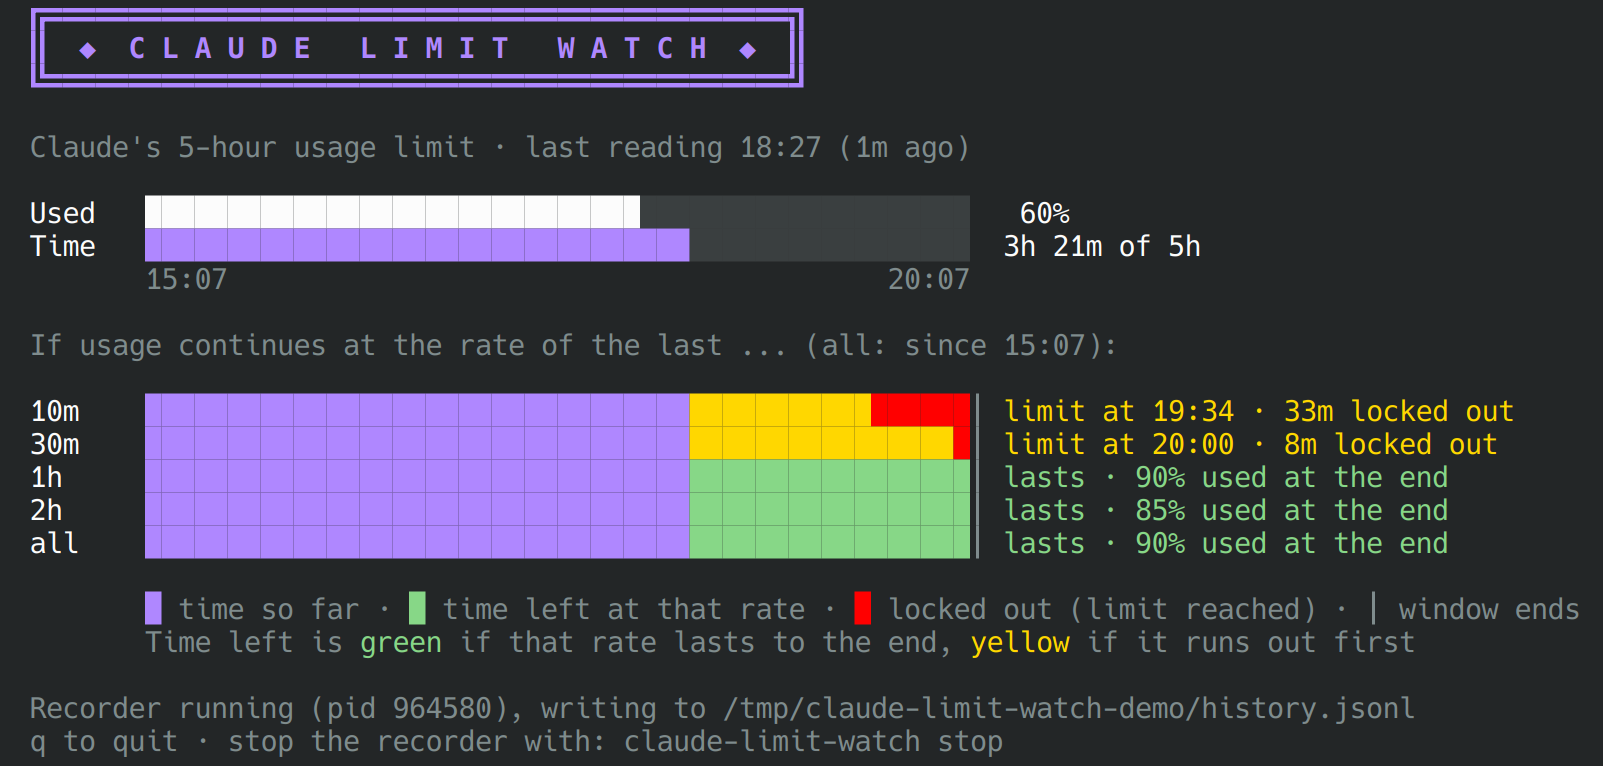
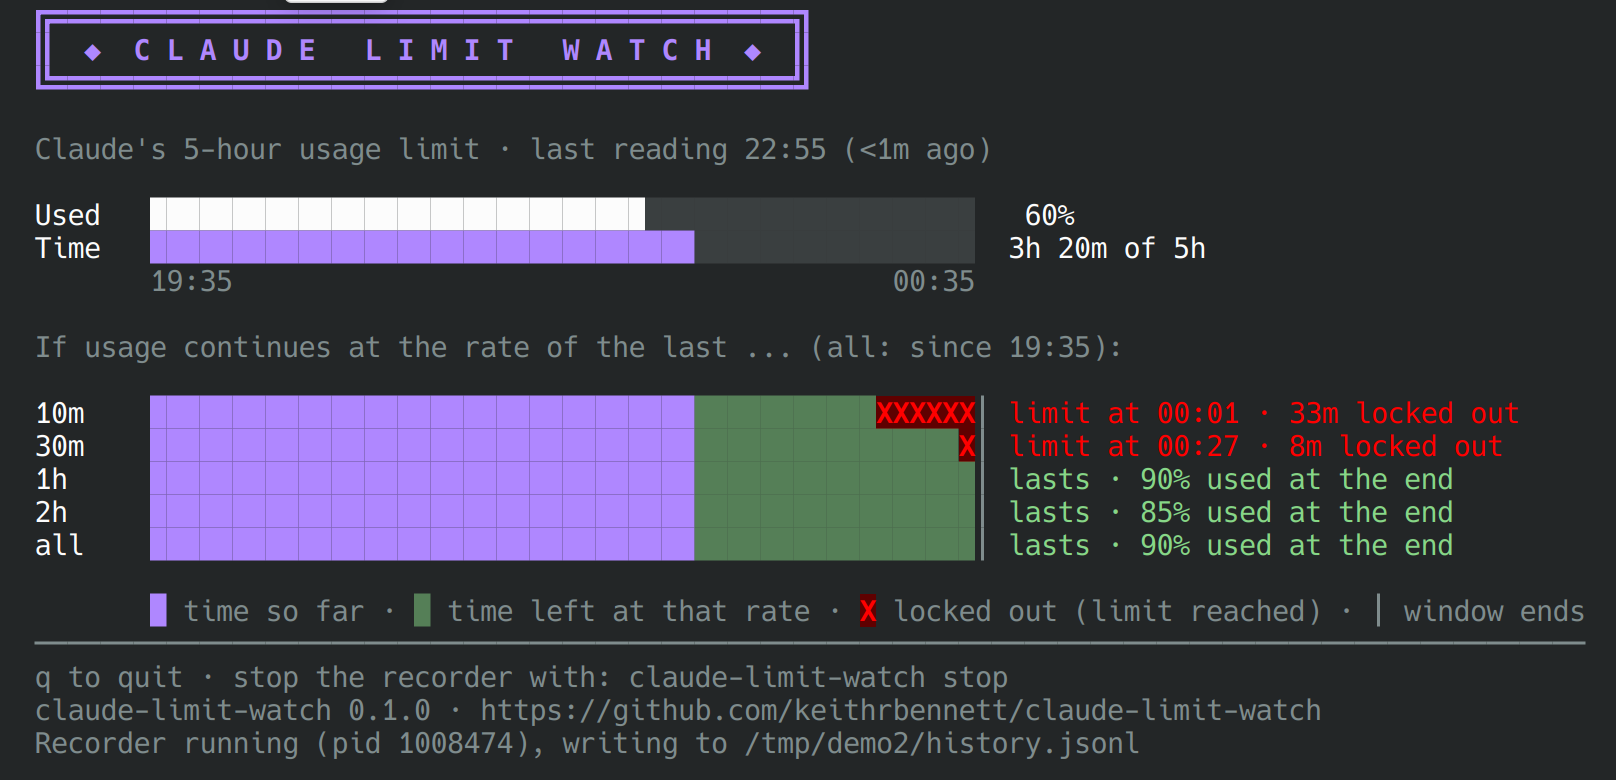
Address review of the panel footer change
- Replace the blank line above the footer rule with the rule, keeping the
  default panel at 23 rows so it fits a 24-row terminal.
- Size the rule from the legend line instead of a magic number, and never
  below zero (it raised ArgumentError at widths of 3 or less).
- Use one VERSION_LINE constant for the version and project URL.
- Fix the demo script's comment and README wrapping for the new colors.
- Add to .gitignore

diff --git a/lib/claude_limit_watch.rb b/lib/claude_limit_watch.rb
@@ -63,6 +63,7 @@ module ClaudeLimitWatch
   LEFT_CHAR = '▒'
   LOCKED_CHAR = 'X'
   LOCKED_COLOR = [1, 38, 5, 196, 48, 5, 52].freeze # bold red X on a dark red background
+  VERSION_LINE = "claude-limit-watch #{VERSION} · #{HOMEPAGE}"
   RATE_COL = 23 # width of the burn-rate column
   @rate_window_min = DEFAULT_RATE_WINDOW_MIN # set from the command line
 
@@ -459,7 +460,7 @@ module ClaudeLimitWatch
     puts color(message, :dim)
     puts color("Claude 5-hour limit, from #{HISTORY_FILE}; burn rate over the last " \
                "#{num(@rate_window_min)}m. Ctrl-C to quit (the recorder keeps running).", :dim)
-    puts color("claude-limit-watch #{VERSION}: #{HOMEPAGE}", :dim)
+    puts color(VERSION_LINE, :dim)
     puts color(header, :dim)
 
     cache = HistoryCache.new
@@ -599,6 +600,13 @@ module ClaudeLimitWatch
 
   # once: printing a single copy (--once), so use a fixed width, don't
   # truncate, and leave out the quit instruction.
+  # The projection bars' key: each symbol drawn as it appears in the bars.
+  def legend
+    "         #{paint(SO_FAR_CHAR, *ACCENT_COLOR)}#{paint(' time so far · ', 90)}#{paint(LEFT_CHAR, COLORS[:ok])}" \
+      "#{paint(' time left at that rate · ', 90)}#{paint(LOCKED_CHAR, *LOCKED_COLOR)}" \
+      "#{paint(' locked out (limit reached) · │ window ends', 90)}"
+  end
+
   def dashboard_lines(st, now, once: false)
     w = once ? 100 : term_width
     bar_w = (w - 47).clamp(10, 50) # leaves room for the projection rows' text
@@ -628,10 +636,7 @@ module ClaudeLimitWatch
         lines << ''
         lines.concat(projection_bar_lines(st[:table], p, bar_w, now))
         lines << ''
-        # Each symbol drawn as it appears in the bars.
-        lines << "         #{paint(SO_FAR_CHAR, *ACCENT_COLOR)}#{paint(' time so far · ', 90)}#{paint(LEFT_CHAR, COLORS[:ok])}" \
-                 "#{paint(' time left at that rate · ', 90)}#{paint(LOCKED_CHAR, *LOCKED_COLOR)}" \
-                 "#{paint(' locked out (limit reached) · │ window ends', 90)}"
+        lines << legend
       elsif p[:util] < 100
         lines << ''
         lines << paint("  Projections start #{MIN_ELAPSED_MIN}m into the window " \
@@ -647,19 +652,19 @@ module ClaudeLimitWatch
       gap = st[:last_t] ? "No new readings for #{dur_m(now - st[:last_t])}. " : ''
       lines << paint("  #{gap}#{RESTART_HINT}", 33)
     end
-    lines << ''
     recorder =
       if st[:recorder_pid]
         "Recorder running (pid #{st[:recorder_pid]}), writing to #{home_relative(HISTORY_FILE)}"
       else
         "Recorder not running (history file: #{home_relative(HISTORY_FILE)})"
       end
-    lines << paint("  #{'─' * [bar_w + 46, w - 4].min}", 90)
+    rule_w = [[legend.gsub(ANSI_RE, '').size - 2, w - 4].min, 0].max # ends where the legend does
+    lines << paint("  #{'─' * rule_w}", 90)
     unless once
       stop = st[:recorder_pid] ? ' · stop the recorder with: claude-limit-watch stop' : ''
       lines << paint("  q to quit#{stop}", 90)
     end
-    lines << paint("  claude-limit-watch #{VERSION} · #{HOMEPAGE}", 90)
+    lines << paint("  #{VERSION_LINE}", 90)
     lines << paint("  #{recorder}", 90)
     once ? lines : lines.map { |l| fit(l, w) }
   end
@@ -723,7 +728,7 @@ module ClaudeLimitWatch
       # Leave the stop instruction in the scrollback.
       pid = recorder_pid
       puts pid ? stop_hint(pid) : 'The recorder is not running.'
-      puts "claude-limit-watch #{VERSION}: #{HOMEPAGE}"
+      puts VERSION_LINE
       $stdout.flush
     end
     %w[INT TERM HUP].each { |sig| trap(sig) { exit 0 } }
@@ -764,7 +769,7 @@ module ClaudeLimitWatch
           --lines: one line per reading instead of the full-screen panel.
           --once:  print the panel once and exit (for copying); doesn't start the recorder.
 
-    claude-limit-watch #{VERSION}: #{HOMEPAGE}
+    #{VERSION_LINE}
   TEXT
 
   def number_arg(arg, default, min)

diff --git a/script/demo_history.rb b/script/demo_history.rb
@@ -7,8 +7,8 @@
 #   CLAUDE_LIMIT_WATCH_FILE=<history-file> exe/claude-limit-watch   # in another
 #
 # The scenario: 3h20m into the window at 60% used, after an early burst and a
-# recent surge, so the 10m and 30m rows run out (yellow, with red locked-out
-# time) while 1h, 2h and all last to the end (green).
+# recent surge, so the 10m and 30m rows run out (green time left, then red
+# locked-out time) while 1h, 2h and all last to the end (all green).
 #
 # It holds the recorder lock, so the viewer shows it as the running recorder
 # and doesn't start a real one (which would append real readings).

diff --git a/README.md b/README.md
@@ -85,8 +85,7 @@ untouched. Press **q** (or Ctrl-C) to quit; the recorder keeps running.
       all    ███████████████████████████████████████████▒▒▒▒▒XX│ limit at 01:59 · 10m locked out
 
              █ time so far · ▒ time left at that rate · X locked out (limit reached) · │ window ends
-
-      ────────────────────────────────────────────────────────────────────────────────────────────────
+      ──────────────────────────────────────────────────────────────────────────────────────────────
       q to quit · stop the recorder with: claude-limit-watch stop
       claude-limit-watch 0.1.0 · https://github.com/keithrbennett/claude-limit-watch
       Recorder running (pid 4110391), writing to ~/.local/state/claude-limit-watch/history.jsonl
@@ -105,8 +104,7 @@ untouched. Press **q** (or Ctrl-C) to quit; the recorder keeps running.
   least one column whenever there's any), and │ is the end of the window.
   So a bar that lasts to the end is █ then ▒, and one that runs out is █,
   ▒, then X (in red text). The fills tell the parts apart without color
-  too. The
-  text gives the hit time and how long you'd be locked out ("limit at
+  too. The text gives the hit time and how long you'd be locked out ("limit at
   01:49 · 20m locked out"), or how much you'd have used by the end ("lasts
   · 88% used at the end"). A row whose history doesn't reach back the
   whole look-back is labeled with what it covers (e.g. `1h50m`); one with
@@ -158,8 +156,8 @@ when its pace is 2x or more (e.g. 20% used in the first 20 minutes is about
 constants at the top of `lib/claude_limit_watch.rb`.
 
 Colors come from the 256-color palette (green 114, yellow 220, red 196,
-dark red 52, lavender 141), since terminal themes often remap the 16 basic colors (yellow
-showing as orange, for example). They're off when `NO_COLOR` is set.
+dark red 52, lavender 141), since terminal themes often remap the 16 basic
+colors (yellow showing as orange, for example). They're off when `NO_COLOR` is set.
 
 ## How it works
 
